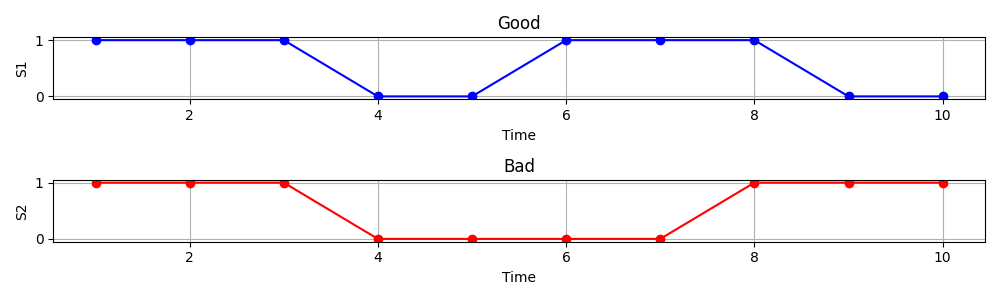
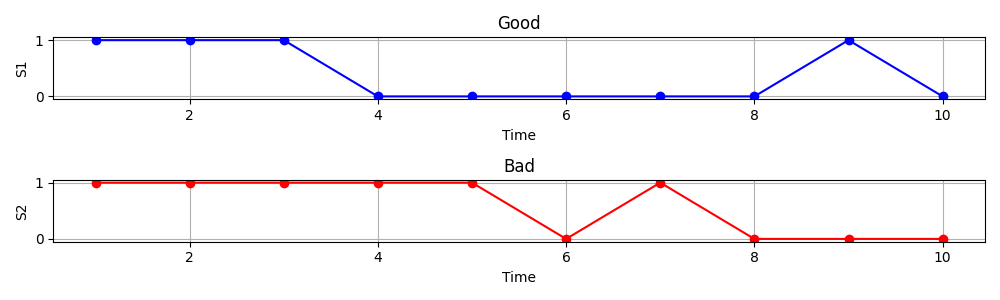
Remove the unecessary contents

diff --git a/congestion_mitigation.py b/congestion_mitigation.py
@@ -28,17 +28,43 @@ class CongestionMitigation:
             raise ValueError("Network data is incomplete.")
 
         # Check guaranteed power vs forecasted power
+        # for node in network["nodes"]:
+        #     if "load" in node:
+        #         load = node["load"]
+        #         for phase in ["a", "b", "c"]:
+        #             if load["P_guaranteed"] >= load["P_forecasted"]:
+        #                 raise ValueError(
+        #                     f"Node {node['id']}: P_guaranteed must be smaller than P_forecasted for phase {phase}."
+        #                 )
+        #             if load["Q_guaranteed"] >= load["Q_forecasted"]:
+        #                 raise ValueError(
+        #                     f"Node {node['id']}: Q_guaranteed must be smaller than Q_forecasted for phase {phase}."
+        #                 )
         for node in network["nodes"]:
             if "load" in node:
-                load = node["load"]
-                for phase in ["a", "b", "c"]:
+                load_list = node["load"]
+                if not isinstance(load_list, list):
+                    raise ValueError(f"Node {node['id']}: Load data must be a list.")
+                for load in load_list:
+                    if not all(
+                        key in load
+                        for key in [
+                            "P_forecasted",
+                            "Q_forecasted",
+                            "P_guaranteed",
+                            "Q_guaranteed",
+                        ]
+                    ):
+                        raise ValueError(
+                            f"Node {node['id']}: Load data is missing required keys."
+                        )
                     if load["P_guaranteed"] >= load["P_forecasted"]:
                         raise ValueError(
-                            f"Node {node['id']}: P_guaranteed must be smaller than P_forecasted for phase {phase}."
+                            f"Node {node['id']}: P_guaranteed must be smaller than P_forecasted at time step {load['time']}."
                         )
                     if load["Q_guaranteed"] >= load["Q_forecasted"]:
                         raise ValueError(
-                            f"Node {node['id']}: Q_guaranteed must be smaller than Q_forecasted for phase {phase}."
+                            f"Node {node['id']}: Q_guaranteed must be smaller than Q_forecasted at time step {load['time']}."
                         )
 
         # Check impedance values
@@ -111,11 +137,28 @@ class CongestionMitigation:
             initialize=0,
         )
 
-        # Objective Function
-        def objective_rule(model):
-            return sum(model.s[n, t] for n in model.Nodes for t in model.T)
+        # Regularization weight (adjust as needed)
+        lambda_rof = 0.0
 
-        model.Objective = Objective(rule=objective_rule, sense=minimize)
+        # Objective Function with ROF Regularization
+        def objective_rule_with_rof(model):
+            # Original objective
+            original_objective = sum(
+                model.s[n, t] for n in model.Nodes for t in model.T
+            )
+
+            # ROF Regularization: Penalize differences between consecutive time steps
+            rof_regularization = sum(
+                abs(model.s[n, t] - model.s[n, t - 1])
+                for n in model.Nodes
+                for t in model.T
+                if t > model.T.first()
+            )
+
+            # Combine the two
+            return original_objective + lambda_rof * rof_regularization
+
+        model.Objective = Objective(rule=objective_rule_with_rof, sense=minimize)
 
         # Constraints
 
@@ -149,7 +192,7 @@ class CongestionMitigation:
                 for p in model.Phases:
                     model.constraints.add(voltage_min <= model.u[n, p, p, t])
                     model.constraints.add(model.u[n, p, p, t] <= voltage_max)
-                    
+
         # 5. Thermal Limits
         for branch in branches:
             branch_id = branch["id"]
@@ -158,10 +201,11 @@ class CongestionMitigation:
                 for p1 in model.Phases:
                     for p2 in model.Phases:
                         model.constraints.add(
-                            model.P_flow[branch_id, p1, p2, t]<= thermal_limit)
+                            model.P_flow[branch_id, p1, p2, t] <= thermal_limit
+                        )
                         model.constraints.add(
-                            model.Q_flow[branch_id, p1, p2, t]<= thermal_limit)
-
+                            model.Q_flow[branch_id, p1, p2, t] <= thermal_limit
+                        )
 
         # 6. Power Flow Balance Constraint
         for node in nodes:
@@ -226,12 +270,18 @@ class CongestionMitigation:
                             + gamma_imag * model.P_flow[branch_id, p1, p1, t]
                         )
 
-        # 8. User Demand Constraints
+        # 8. User Demand Constraints (Modified for time-varying loads)
         for node in nodes:
             if "load" in node:
                 n = node["id"]
-                load = node["load"]
                 for t in model.T:
+                    load_at_t = next(
+                        (load for load in node["load"] if load["time"] == t), None
+                    )
+                    if not load_at_t:
+                        raise ValueError(
+                            f"Node {n}: Missing load data for time step {t}."
+                        )
                     for phase in model.Phases:
                         phase_key = phase_map[
                             phase
@@ -239,14 +289,14 @@ class CongestionMitigation:
                         # Active power constraint
                         model.constraints.add(
                             -model.P[n, phase, phase, t]
-                            == model.s[n, t] * load["P_guaranteed"]
-                            + (1 - model.s[n, t]) * load["P_forecasted"]
+                            == model.s[n, t] * load_at_t["P_guaranteed"]
+                            + (1 - model.s[n, t]) * load_at_t["P_forecasted"]
                         )
                         # Reactive power constraint
                         model.constraints.add(
                             -model.Q[n, phase, phase, t]
-                            == model.s[n, t] * load["Q_guaranteed"]
-                            + (1 - model.s[n, t]) * load["Q_forecasted"]
+                            == model.s[n, t] * load_at_t["Q_guaranteed"]
+                            + (1 - model.s[n, t]) * load_at_t["Q_forecasted"]
                         )
 
         self.model = model
@@ -348,8 +398,15 @@ class CongestionMitigation:
                     X = impedance["X"]
                     Z = [[R[i][j] + 1j * X[i][j] for j in range(3)] for i in range(3)]
 
-                    Sij = [[value(self.model.P_flow[branch["id"], i + 1, j + 1, 1]) +
-                            1j * value(self.model.Q_flow[branch["id"], i + 1, j + 1, 1]) for j in range(3)] for i in range(3)]
+                    Sij = [
+                        [
+                            value(self.model.P_flow[branch["id"], i + 1, j + 1, 1])
+                            + 1j
+                            * value(self.model.Q_flow[branch["id"], i + 1, j + 1, 1])
+                            for j in range(3)
+                        ]
+                        for i in range(3)
+                    ]
                     V_from = voltage[from_node]
 
                     Iij = [
@@ -358,7 +415,8 @@ class CongestionMitigation:
 
                     # Recover voltage at to_node
                     V_to = [
-                        V_from[i] - sum(Z[i][j] * Iij[j] for j in range(3)) for i in range(3)
+                        V_from[i] - sum(Z[i][j] * Iij[j] for j in range(3))
+                        for i in range(3)
                     ]
 
                     voltage[to_node] = V_to
@@ -373,9 +431,10 @@ class CongestionMitigation:
         for branch_id, curr in current.items():
             print(f"Branch {branch_id}: {curr}")
 
+
 simple_example = CongestionMitigation("network.json")
 simple_example.check_data_sanity()
 simple_example.create_problem()
 simple_example.solve_problem()
 simple_example.show_result()
-simple_example.recover_voltage_current()
+# simple_example.recover_voltage_current()

diff --git a/PPTFigure/plot.py b/PPTFigure/plot.py
@@ -2,18 +2,20 @@ import matplotlib.pyplot as plt
 
 # Data
 time_points = [1, 2, 3, 4, 5, 6, 7, 8, 9, 10]
-s1_values_1 = [1, 1, 1, 0, 0, 0, 0, 0, 0, 1]
-s1_values_2 = [1, 1, 1, 1, 1, 0, 0, 0, 0, 0]
+# s1_values_1 = [1, 1, 1, 0, 0, 0, 0, 0, 0, 1]
+# s1_values_2 = [1, 1, 1, 1, 1, 0, 0, 0, 0, 0]
 
-s2_values_1 = [1, 1, 1, 0, 0, 1, 1, 1, 0, 0]
-s2_values_2 = [0, 1, 0, 1, 0, 1, 0, 1, 0, 1]
+# s2_values_1 = [1, 1, 1, 0, 0, 1, 1, 1, 0, 0]
+# s2_values_2 = [0, 1, 0, 1, 0, 1, 0, 1, 0, 1]
+
+s1_values_1 = [1, 1, 1, 0, 0, 0, 0, 0, 1, 0]
+s1_values_2 = [1, 1, 1, 1, 1, 0, 1, 0, 0, 0]
 # Create figure and subplots
 plt.figure(figsize=(10, 3))
 
 # First plot
 plt.subplot(2, 1, 1)  # 2 rows, 1 column, 1st subplot
 plt.plot(time_points, s1_values_1, marker='o', linestyle='-', color='b')
-plt.plot(time_points, s1_values_2, marker='x', linestyle='-', color='g')
 plt.title("Good")
 plt.xlabel("Time")
 plt.ylabel("S1")
@@ -22,8 +24,7 @@ plt.grid(True)
 
 # Second plot
 plt.subplot(2, 1, 2)  # 2 rows, 1 column, 2nd subplot
-plt.plot(time_points, s2_values_1, marker='o', linestyle='-', color='r')
-plt.plot(time_points, s2_values_2, marker='x', linestyle='-', color='y')
+plt.plot(time_points, s1_values_2, marker='o', linestyle='-', color='r')
 plt.title("Bad")
 plt.xlabel("Time")
 plt.ylabel("S2")
